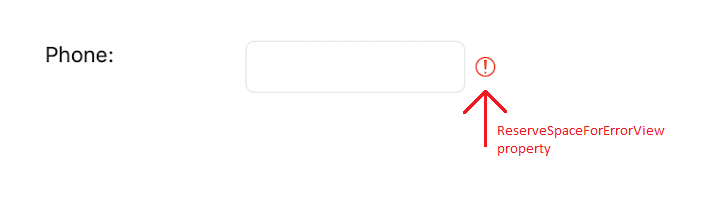
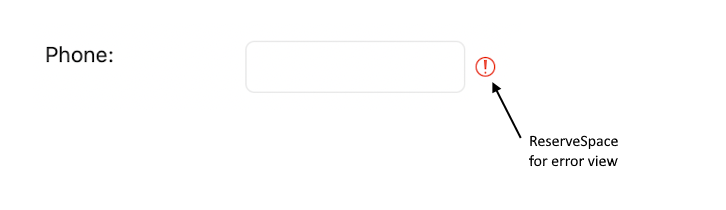
address comments

Changed region(s): [[0.6364, 0.4, 0.9091, 0.8]]

diff --git a/controls/entry/validation.md b/controls/entry/validation.md
@@ -29,11 +29,10 @@ And the namespace used:
 xmlns:telerik="http://schemas.telerik.com/2022/xaml/maui"
 ```
 
-* `ReserveSpaceForErrorView`(`string`)&mdash; The Entry control in MacCatalyst is preserving space on its right side for the error icon. If developers are not using the validation feature of the Entry, there is an API that makes the control takes its entire space - the ReserveSpaceForErrorView property. The property should be set to false.
-The image below shows how the control looks like after setting this property:
+* The Entry control in MacCatalyst is preserving space on its right side for the error icon. If developers are not using the validation feature of the Entry, there is an API that makes the control takes its entire space - the `ReserveSpaceForErrorView`(`bool`) property. The default value is `true`.
+The image below shows the error icon that is displayed inside the reserved space:
 
 ![Entry validation](images/entry_ReserveSpaceForErrorView_property.png)
-
 
 ## See Also
 

diff --git a/controls/accordion/getting-started.md b/controls/accordion/getting-started.md
@@ -33,8 +33,9 @@ When your .NET MAUI application is set up, you are ready to add a Accordion cont
 <snippet id='accordion-getting-started-xaml' />
 <snippet id='accordion-getting-started-csharp' />
 
-
 >important RadAccordion provides a read only collection `Items` of type `IList<AccordionItem>`.
+
+
 
 **2.** Add the `telerik` namespace:
 
